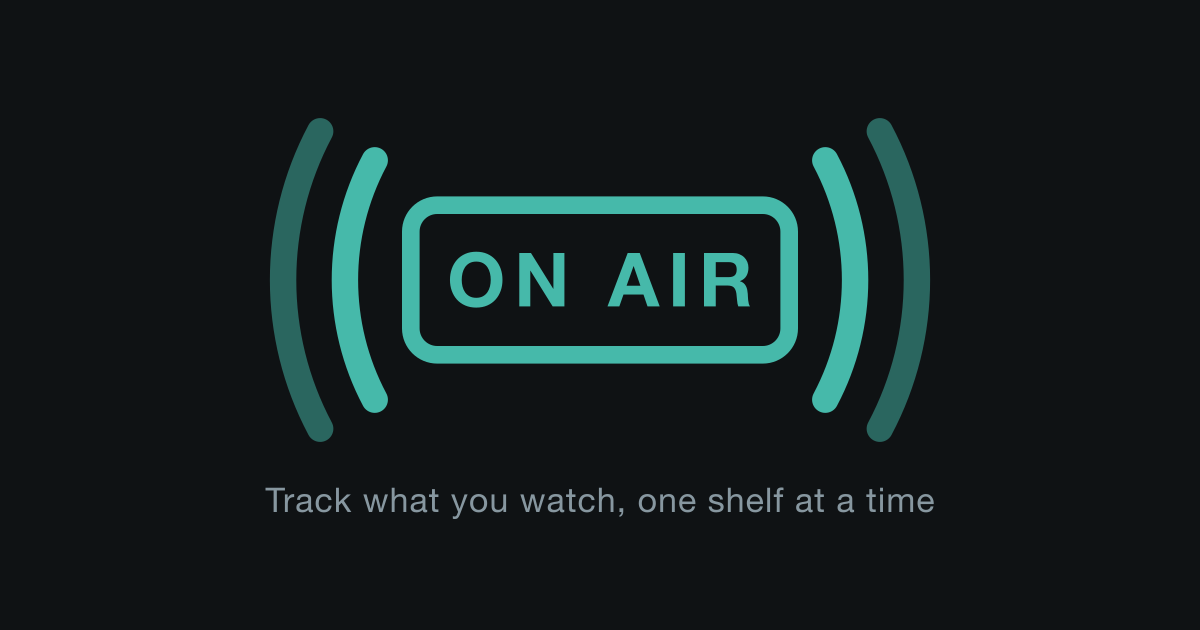
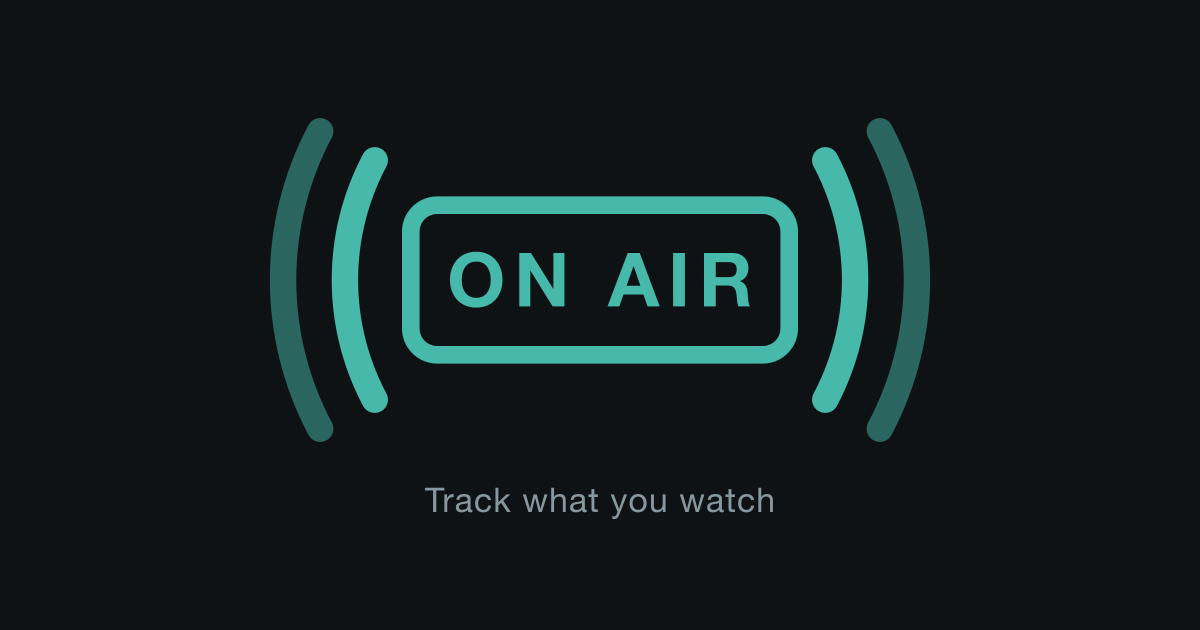
cosmetic changes

Changed region(s): [[0.2158, 0.754, 0.8017, 0.8143]]

diff --git a/public/shelf.css b/public/shelf.css
@@ -238,20 +238,25 @@ main { padding: 1.6rem 0 4rem; }
 }
 .sheet {
   --sheet: min(100%, 30rem);
+  /* How far the bar has taken the name over from the picture: 0 while the picture still shows
+     it, 1 once the text has covered the picture. The scroll sets `--scrolled`, so both ends of
+     the exchange follow the reader's finger instead of running on a timer of their own. */
+  --named: clamp(0, calc((var(--scrolled, 0) - 90) / 70), 1);
   position: fixed; inset: 0 0 0 auto; z-index: 31; width: var(--sheet);
   background: var(--panel); border-left: 1px solid var(--rule); overflow-y: auto;
   box-shadow: -12px 0 40px var(--shade);
 }
-/* The name of the show, on a bar the width of the sheet, for when the picture that carries the
-   name is behind the text. */
+/* The name of the show, on a bar the width of the sheet. It is a label and nothing in it can be
+   pressed, so it never takes a press meant for the text under it. */
 .crown {
   position: fixed; z-index: 32; top: 0; right: 0; width: var(--sheet);
   height: 3.6rem; line-height: 3.6rem; padding: 0 3.4rem 0 1.5rem;
   background: var(--panel); border-bottom: 1px solid var(--rule); font-weight: 600;
   white-space: nowrap; overflow: hidden; text-overflow: ellipsis;
-  opacity: 0; visibility: hidden; transition: opacity 0.2s, visibility 0.2s;
+  pointer-events: none;
+  opacity: var(--named);
+  transform: translateY(calc((var(--named) - 1) * 0.7rem));
 }
-.sheet.scrolled .crown { opacity: 1; visibility: visible; }
 /* The poster fills the head of the sheet. The text sits on a scrim rather than on the art, so
    it reads whatever the poster happens to be. */
 /* Sixteen by nine, because that is the shape of the still it holds. The picture stays where it
@@ -267,11 +272,13 @@ main { padding: 1.6rem 0 4rem; }
   content: ""; position: absolute; inset: 0;
   background: linear-gradient(to top, rgba(8, 11, 13, 0.94) 12%, rgba(8, 11, 13, 0.55) 52%, rgba(8, 11, 13, 0.15));
 }
+/* The picture's own copy of the name gives way as the bar takes it, and drifts as it goes, so
+   the two read as one exchange rather than two fades. */
 .hero .lift {
   position: relative; z-index: 1; padding: 1.3rem 1.5rem 1.15rem;
-  transition: opacity 0.2s;
+  opacity: calc(1 - var(--named));
+  transform: translateY(calc(var(--named) * -1.2rem));
 }
-.sheet.scrolled .hero .lift { opacity: 0; }
 .hero h2 {
   margin: 0.25rem 0 0.2rem; font-size: 1.6rem; font-weight: 600;
   letter-spacing: -0.015em; text-wrap: balance; color: #fff;

diff --git a/public/index.html b/public/index.html
@@ -4,7 +4,7 @@
     <meta charset="UTF-8" />
     <meta name="viewport" content="width=device-width, initial-scale=1" />
 
-    <title>ONAIR — track what you watch, one shelf at a time</title>
+    <title>ONAIR — track what you watch</title>
     <meta
       name="description"
       content="A television tracker: see which episode you are on, what has aired that you have not seen, and when the next one is due. Works without an account; sign in to sync across devices."
@@ -362,9 +362,9 @@
         <aside
           class="sheet"
           aria-label="Show details"
-          :class="{ scrolled }"
-          x-init="scrolled = false"
-          @scroll="scrolled = $el.scrollTop > 140"
+          :style="`--scrolled:${scrolled}`"
+          x-init="scrolled = 0"
+          @scroll="scrolled = $el.scrollTop"
         >
           <!-- The close button keeps its place while the sheet scrolls. The name joins it once
            the picture has gone behind the text, so the sheet always says which show it is

diff --git a/public/shelf.js b/public/shelf.js
@@ -67,9 +67,9 @@ const shelf = () => ({
   finding: false,
   // A show found by searching, held long enough to look at before deciding to track it.
   preview: null,
-  // Whether the sheet is scrolled far enough that the picture no longer says which show this
-  // is. The sheet sets it as it scrolls, and starts each show with it clear.
-  scrolled: false,
+  // How far the open sheet is scrolled, in pixels. The stylesheet turns it into the exchange
+  // between the name on the picture and the name on the bar. Each show starts at the top.
+  scrolled: 0,
   // Which seasons the reader has opened. Held here, not on the <details>, because the element
   // is rebuilt when its episodes arrive and would otherwise shut itself.
   unfolded: [],
